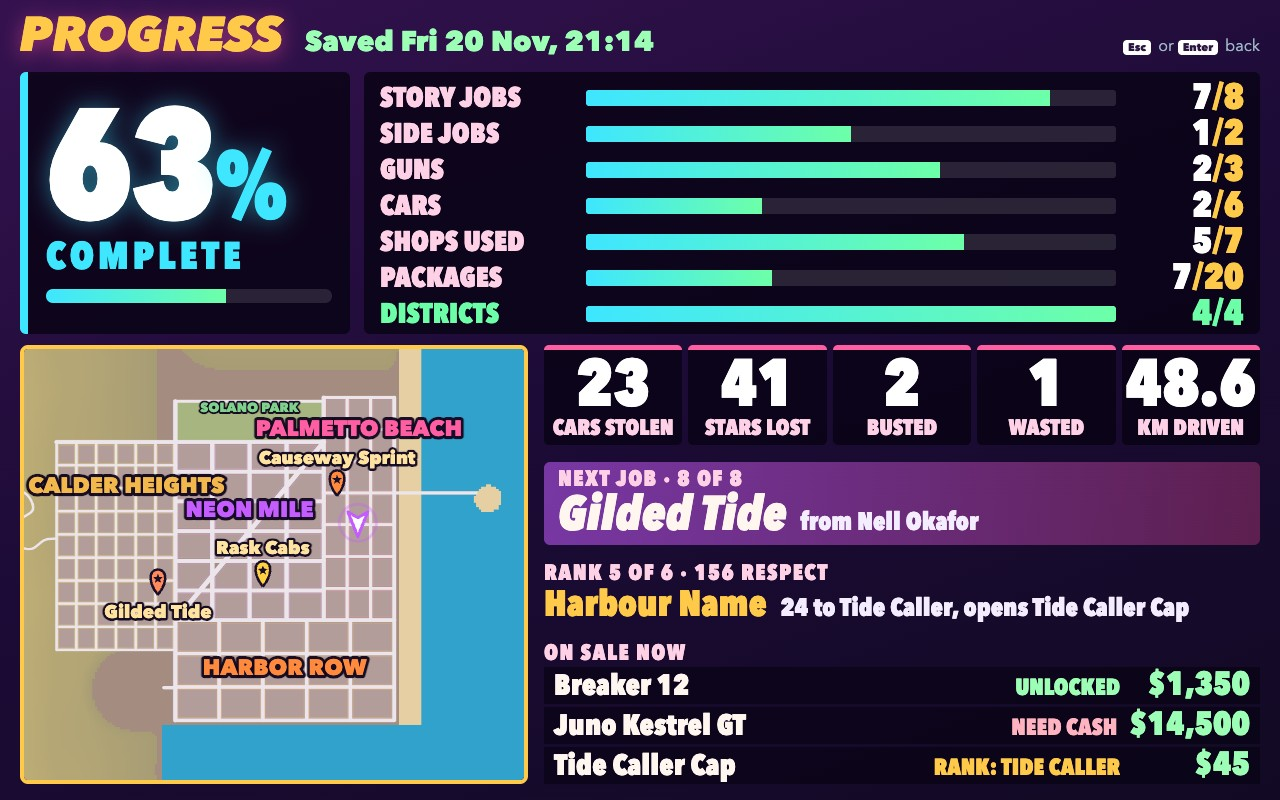
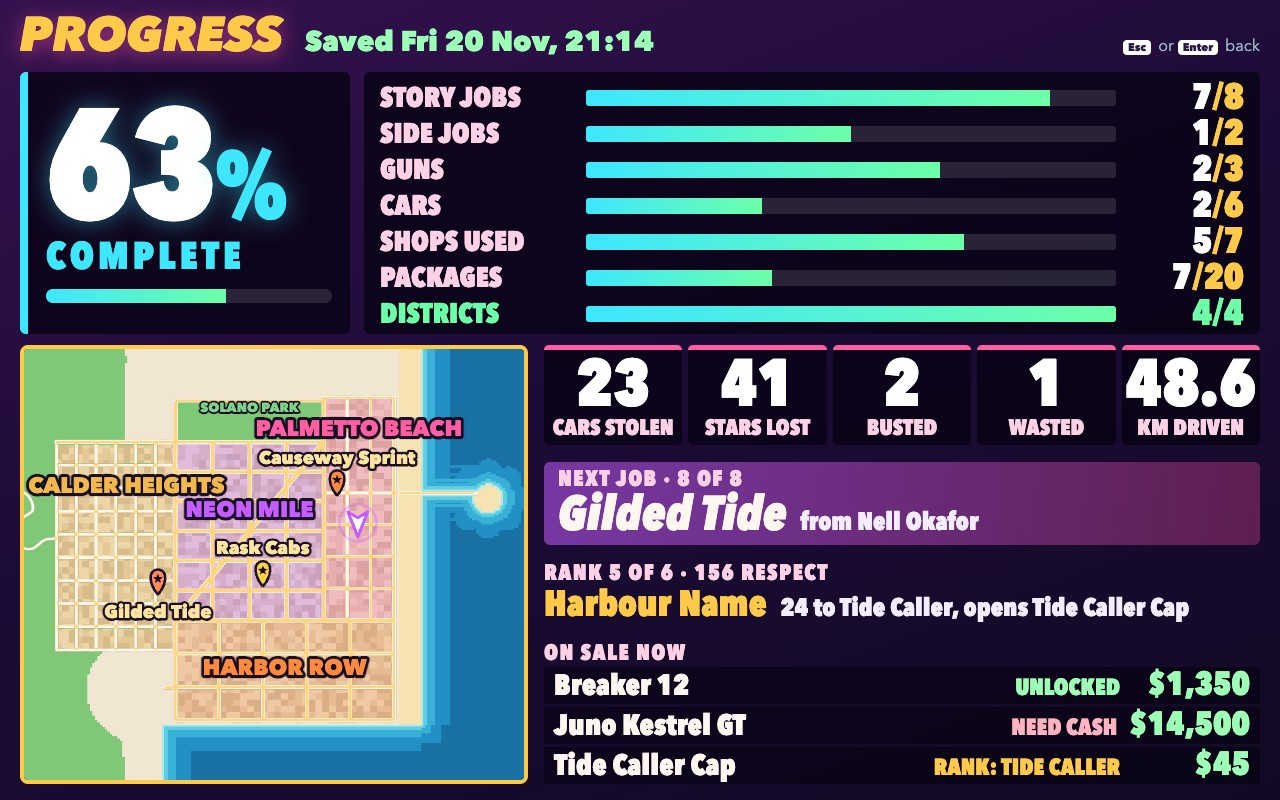
feat(map): designed full map with sea depth, green park, gold major roads and faction-tinted districts
ui/mapstyle.js (tested) reads the minimap base palette back per pixel and
colours it: five sea bands from a pale surf line out to deep water, the park
green, wide roads gold beside cream side streets, building blocks in three
fixed tones, ground and blocks tinted toward each district's accent.

Changed region(s): [[0.0, 0.4375, 0.4062, 1.0]]

diff --git a/game/src/ui/mapsunny.js b/game/src/ui/mapsunny.js
@@ -1,8 +1,31 @@
-// Full-map palette: a half-size copy of the shared city canvas recoloured for daylight, a bright sea and warm land.
+// Full-map palette: a half-size copy of the shared city canvas repainted as a daylight map. The sea deepens away
+// from a pale surf line, the park is green, major roads are wide and gold beside cream side streets, and each
+// district's ground and blocks (in three tones) carry its faction colour. Rules in ui/mapstyle.js.
+import { WORLD_BOUNDS } from '../world/heightfield.js';
+import { DISTRICT_LIST, PARK } from '../world/districts.js';
+import {
+  SHORE_RADII, SEA_BANDS, blockTone, classifyPixel, hexRgb, landColour, roadClass, seaBand,
+} from './mapstyle.js';
+
 const SIZE = 1024;
-// Sea pixels are pulled toward this turquoise; everything else is lifted toward white, red most, blue least.
-const SEA = [52, 176, 222];
+// Hills and blends are lifted toward white, red most, blue least.
 const LIFT = [0.54, 0.45, 0.3];
+const KINDS = ['other', 'water', 'ground', 'sand', 'park', 'road', 'block'];
+const WATER = 1;
+const ROAD = 5;
+/** Half the side of the window that tells a major road from a side street, and the block tone cell in pixels. */
+const ROAD_REACH = 3;
+const TONE_CELL = 11;
+const DIRECTIONS = [[1, 0], [-1, 0], [0, 1], [0, -1], [0.7, 0.7], [-0.7, 0.7], [0.7, -0.7], [-0.7, -0.7]];
+
+const toPixel = (x, z) => [(x - WORLD_BOUNDS.x0) / (WORLD_BOUNDS.x1 - WORLD_BOUNDS.x0) * SIZE,
+  (z - WORLD_BOUNDS.z0) / (WORLD_BOUNDS.z1 - WORLD_BOUNDS.z0) * SIZE];
+
+function areaRect(rect) {
+  const [x0, y0] = toPixel(rect.x0, rect.z0);
+  const [x1, y1] = toPixel(rect.x1, rect.z1);
+  return { x0, y0, x1, y1 };
+}
 
 /** The city canvas (dark minimap colours) repainted for the full-map screen; the original is left untouched. */
 export function sunnyCanvas(base) {
@@ -14,20 +37,48 @@ export function sunnyCanvas(base) {
   ctx.drawImage(base, 0, 0, SIZE, SIZE);
   const image = ctx.getImageData(0, 0, SIZE, SIZE);
   const px = image.data;
-  for (let i = 0; i < px.length; i += 4) {
-    const r = px[i];
-    const g = px[i + 1];
-    const b = px[i + 2];
-    if (g > r + 30 && b > g) {
-      // Water: keep its shading (shallows are lighter) but in a clear Gulf blue.
-      const shade = 0.92 + (g - 92) / 255;
-      px[i] = Math.min(255, SEA[0] * shade);
-      px[i + 1] = Math.min(255, SEA[1] * shade);
-      px[i + 2] = Math.min(255, SEA[2] * shade);
-    } else {
-      px[i] = 255 - (255 - r) * (1 - LIFT[0]);
-      px[i + 1] = 255 - (255 - g) * (1 - LIFT[1]);
-      px[i + 2] = 255 - (255 - b) * (1 - LIFT[2]);
+  const kinds = new Uint8Array(SIZE * SIZE);
+  for (let k = 0; k < kinds.length; k += 1) {
+    kinds[k] = KINDS.indexOf(classifyPixel(px[k * 4], px[k * 4 + 1], px[k * 4 + 2]));
+  }
+  const areas = DISTRICT_LIST.map((district) => ({ ...areaRect(district.rect), accent: hexRgb(district.accent) }));
+  const park = areaRect(PARK.rect);
+  const kindAt = (x, y) => (x < 0 || y < 0 || x >= SIZE || y >= SIZE ? WATER : kinds[y * SIZE + x]);
+  const landWithin = (x, y) => {
+    for (const radius of SHORE_RADII) {
+      for (const [dx, dy] of DIRECTIONS) {
+        if (kindAt(Math.round(x + dx * radius), Math.round(y + dy * radius)) !== WATER) return radius;
+      }
+    }
+    return Infinity;
+  };
+  const roadAround = (x, y) => {
+    let count = 0;
+    for (let dy = -ROAD_REACH; dy <= ROAD_REACH; dy += 1) {
+      for (let dx = -ROAD_REACH; dx <= ROAD_REACH; dx += 1) if (kindAt(x + dx, y + dy) === ROAD) count += 1;
+    }
+    return count;
+  };
+  const windowPixels = (ROAD_REACH * 2 + 1) ** 2;
+  for (let y = 0; y < SIZE; y += 1) {
+    for (let x = 0; x < SIZE; x += 1) {
+      const k = y * SIZE + x;
+      const i = k * 4;
+      const kind = KINDS[kinds[k]];
+      let colour;
+      if (kind === 'water') colour = SEA_BANDS[seaBand(landWithin(x, y))];
+      else if (kind === 'other') {
+        colour = [0, 1, 2].map((c) => 255 - (255 - px[i + c]) * (1 - LIFT[c]));
+      } else {
+        const inPark = x >= park.x0 && x < park.x1 && y >= park.y0 && y < park.y1;
+        const area = areas.find((r) => x >= r.x0 && x < r.x1 && y >= r.y0 && y < r.y1);
+        const road = kind === 'road' ? roadClass(roadAround(x, y), windowPixels) : null;
+        const tone = blockTone(Math.floor(x / TONE_CELL), Math.floor(y / TONE_CELL));
+        colour = landColour(inPark && kind !== 'road' ? 'park' : kind, area?.accent ?? null, tone, road);
+      }
+      px[i] = colour[0];
+      px[i + 1] = colour[1];
+      px[i + 2] = colour[2];
     }
   }
   ctx.putImageData(image, 0, 0);

diff --git a/game/src/ui/mapstyle.js b/game/src/ui/mapstyle.js
@@ -1,0 +1,70 @@
+// Full-map styling rules: what a pixel of the city canvas shows, and the colour it gets on the sunny map.
+// Pure functions of numbers, so the map's look is tested without a canvas.
+
+/** The minimap base palette (ui/minimap.js) that the full map reads back. */
+const BASE = [
+  ['water', [29, 92, 120]], ['ground', [58, 47, 74]], ['sand', [201, 167, 122]], ['park', [63, 122, 74]],
+  ['road', [216, 208, 228]], ['block', [90, 76, 110]],
+];
+const NEAR = 42 * 42 * 3;
+
+/** The kind of a base pixel, or 'other' (hills, block outlines, blends) when nothing in the palette is near. */
+export function classifyPixel(r, g, b) {
+  let best = 'other';
+  let bestDistance = NEAR;
+  for (const [kind, [pr, pg, pb]] of BASE) {
+    const distance = (r - pr) ** 2 + (g - pg) ** 2 + (b - pb) ** 2;
+    if (distance < bestDistance) {
+      best = kind;
+      bestDistance = distance;
+    }
+  }
+  return best;
+}
+
+/** Sea from the shoreline (band 0, pale surf) out to deep water (band 4). */
+export const SEA_BANDS = [[168, 234, 236], [96, 206, 226], [56, 176, 216], [34, 144, 196], [24, 112, 164]];
+export const SHORE_RADII = [3, 9, 22, 46];
+
+/** The sea band for a water pixel whose nearest land is first found within SHORE_RADII[band] (none: deepest). */
+export function seaBand(landWithin) {
+  const band = SHORE_RADII.findIndex((radius) => landWithin <= radius);
+  return band === -1 ? SEA_BANDS.length - 1 : band;
+}
+
+const BLOCK_TONES = [[222, 206, 182], [206, 188, 162], [236, 224, 204]];
+const GROUND = [240, 230, 210];
+const SAND = [246, 226, 178];
+const PARK = [128, 200, 120];
+const SIDE_ROAD = [252, 248, 240];
+const MAJOR_ROAD = [255, 214, 128];
+
+/** One of the three building tones for the map cell (cx, cy): a fixed hash, so the map is the same every run. */
+export function blockTone(cx, cy) {
+  const h = Math.imul(cx * 73856093 ^ cy * 19349663, 0x27d4eb2d) >>> 0;
+  return BLOCK_TONES[(h >>> 13) % BLOCK_TONES.length];
+}
+
+/** A road is major when at least `share` of the window around it is road (side streets are thinner than that). */
+export const MAJOR_SHARE = 0.7;
+export const roadClass = (roadPixels, windowPixels) => (roadPixels >= windowPixels * MAJOR_SHARE ? 'major' : 'side');
+
+/** `colour` moved `amount` of the way toward `accent` (both [r, g, b]); integers. */
+export function tint(colour, accent, amount) {
+  return colour.map((value, i) => Math.round(value + (accent[i] - value) * amount));
+}
+
+/** '#rrggbb' as [r, g, b]. */
+export const hexRgb = (hex) => [1, 3, 5].map((i) => parseInt(hex.slice(i, i + 2), 16));
+
+/**
+ * The sunny colour of a land pixel: kind from classifyPixel, the district accent ([r, g, b] or null outside the
+ * districts), the block tone and the road class.
+ */
+export function landColour(kind, accent, tone, road) {
+  if (kind === 'road') return road === 'major' ? MAJOR_ROAD : SIDE_ROAD;
+  if (kind === 'park') return PARK;
+  if (kind === 'sand') return SAND;
+  const base = kind === 'block' ? tone : GROUND;
+  return accent ? tint(base, accent, kind === 'block' ? 0.28 : 0.2) : base;
+}

diff --git a/game/src/ui/mapstyle.test.js b/game/src/ui/mapstyle.test.js
@@ -1,0 +1,41 @@
+// Full-map styling rules: palette read-back, sea depth bands, road classes and block tones.
+import { test } from 'node:test';
+import assert from 'node:assert/strict';
+import { SEA_BANDS, blockTone, classifyPixel, hexRgb, landColour, roadClass, seaBand, tint } from './mapstyle.js';
+
+test('base pixels are read back as the minimap palette', () => {
+  assert.equal(classifyPixel(29, 92, 120), 'water');
+  assert.equal(classifyPixel(216, 208, 228), 'road');
+  assert.equal(classifyPixel(90, 76, 110), 'block');
+  assert.equal(classifyPixel(63, 122, 74), 'park');
+  assert.equal(classifyPixel(58, 47, 74), 'ground');
+  assert.equal(classifyPixel(255, 0, 0), 'other');
+});
+
+test('the sea deepens away from the shore', () => {
+  assert.equal(seaBand(2), 0);
+  assert.equal(seaBand(9), 1);
+  assert.equal(seaBand(40), 3);
+  assert.equal(seaBand(Infinity), SEA_BANDS.length - 1);
+  // Each band is darker than the one nearer the shore.
+  const light = SEA_BANDS.map(([r, g, b]) => r + g + b);
+  for (let i = 1; i < light.length; i += 1) assert.ok(light[i] < light[i - 1]);
+});
+
+test('major roads are the wide ones and get their own colour', () => {
+  assert.equal(roadClass(49, 49), 'major');
+  assert.equal(roadClass(21, 49), 'side');
+  assert.notDeepEqual(landColour('road', null, null, 'major'), landColour('road', null, null, 'side'));
+});
+
+test('blocks come in three fixed tones, tinted by the district', () => {
+  const tones = new Set();
+  for (let x = 0; x < 30; x += 1) for (let y = 0; y < 30; y += 1) tones.add(blockTone(x, y).join());
+  assert.equal(tones.size, 3);
+  assert.deepEqual(blockTone(4, 7), blockTone(4, 7));
+  const tone = blockTone(1, 2);
+  assert.deepEqual(landColour('block', null, tone, null), tone);
+  assert.notDeepEqual(landColour('block', [255, 0, 128], tone, null), tone);
+  assert.deepEqual(tint([0, 100, 200], [100, 100, 0], 0.5), [50, 100, 100]);
+  assert.deepEqual(hexRgb('#ff8000'), [255, 128, 0]);
+});
